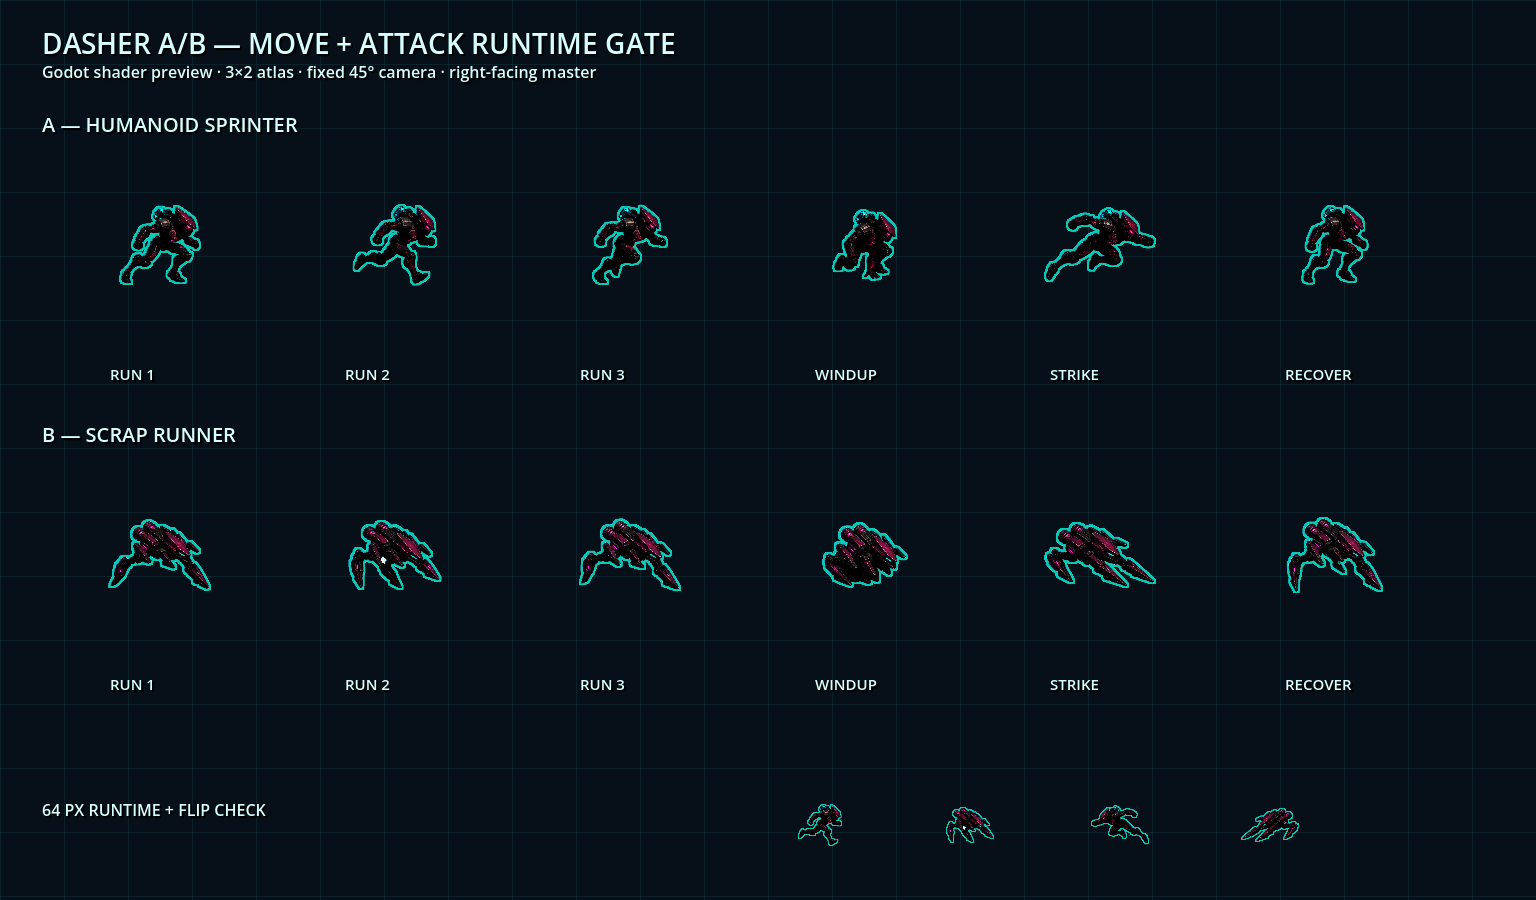
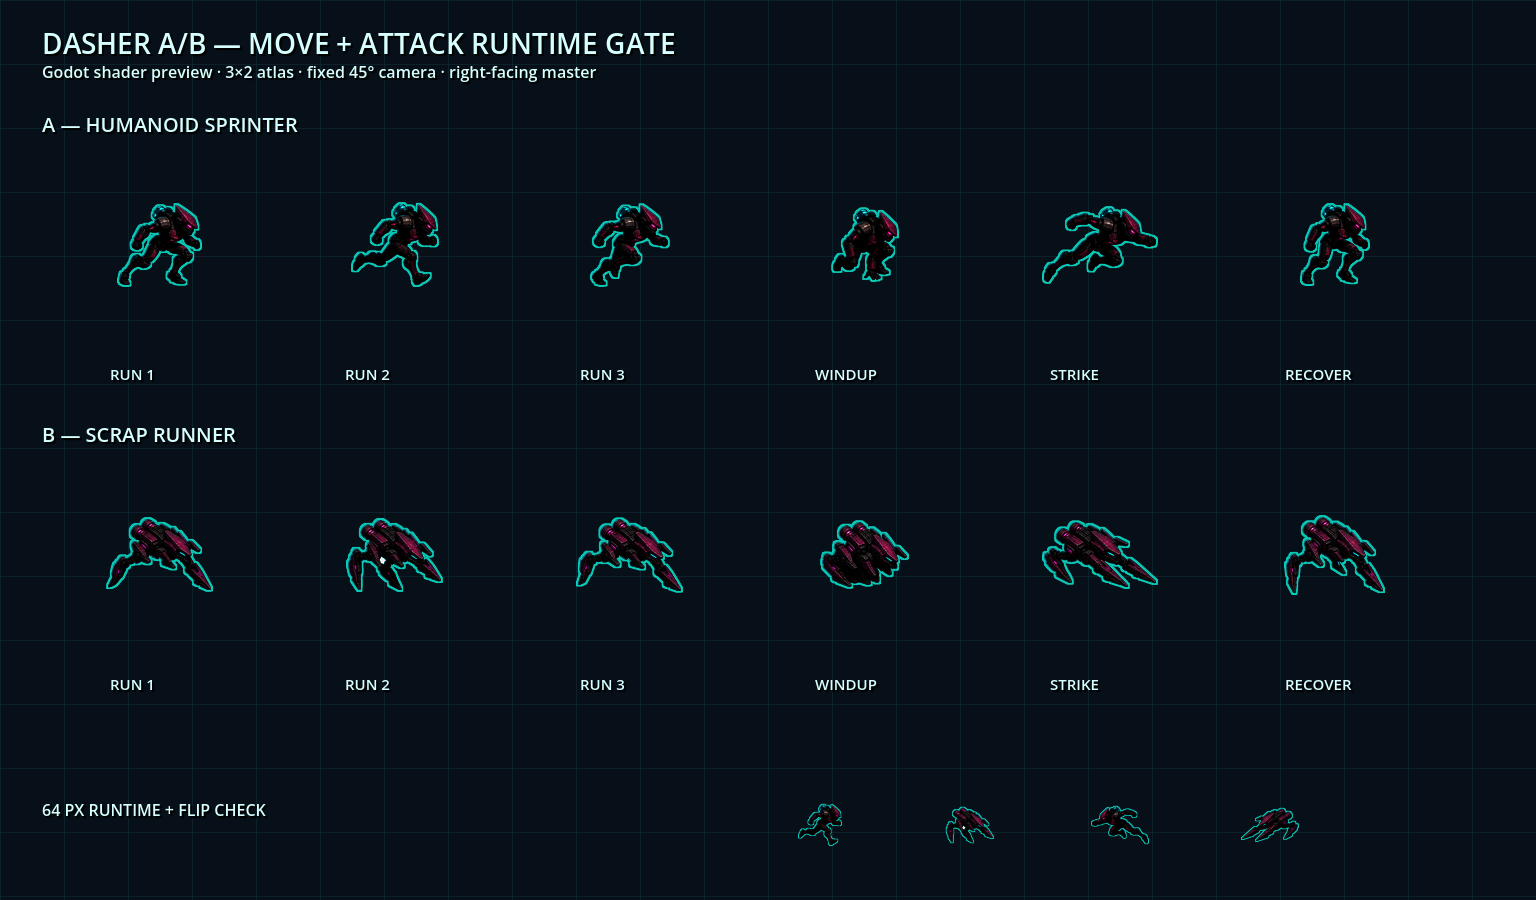
perf: shrink Dasher runtime atlases

diff --git a/scripts/tests/test_dasher_action_assets.py b/scripts/tests/test_dasher_action_assets.py
@@ -18,15 +18,15 @@ class DasherActionAssetsTest(unittest.TestCase):
         for path in ASSETS:
             with self.subTest(path=path.name), Image.open(path) as image:
                 self.assertEqual(image.mode, "RGBA")
-                self.assertEqual(image.size, (1536, 1024))
+                self.assertEqual(image.size, (384, 256))
                 alpha = image.getchannel("A")
                 self.assertEqual(alpha.getextrema(), (0, 255))
                 self.assertEqual(
                     [
                         alpha.getpixel((0, 0)),
-                        alpha.getpixel((1535, 0)),
-                        alpha.getpixel((0, 1023)),
-                        alpha.getpixel((1535, 1023)),
+                        alpha.getpixel((383, 0)),
+                        alpha.getpixel((0, 255)),
+                        alpha.getpixel((383, 255)),
                     ],
                     [0, 0, 0, 0],
                 )
@@ -34,19 +34,19 @@ class DasherActionAssetsTest(unittest.TestCase):
                     for column in range(3):
                         cell = alpha.crop(
                             (
-                                column * 512,
-                                row * 512,
-                                (column + 1) * 512,
-                                (row + 1) * 512,
+                                column * 128,
+                                row * 128,
+                                (column + 1) * 128,
+                                (row + 1) * 128,
                             )
                         )
                         bbox = cell.getbbox()
                         self.assertIsNotNone(bbox)
                         assert bbox is not None
-                        self.assertGreaterEqual(bbox[0], 24)
-                        self.assertGreaterEqual(bbox[1], 24)
-                        self.assertLessEqual(bbox[2], 488)
-                        self.assertLessEqual(bbox[3], 488)
+                        self.assertGreaterEqual(bbox[0], 6)
+                        self.assertGreaterEqual(bbox[1], 6)
+                        self.assertLessEqual(bbox[2], 122)
+                        self.assertLessEqual(bbox[3], 122)
 
 
 if __name__ == "__main__":

diff --git a/scripts/art/build_dasher_runtime_lod_candidates.py b/scripts/art/build_dasher_runtime_lod_candidates.py
@@ -1,0 +1,60 @@
+"""Build temporary Dasher runtime LOD candidates for the Godot comparison gate."""
+
+from __future__ import annotations
+
+from pathlib import Path
+
+from PIL import Image
+
+from repack_animation_sheet import (
+    bake_alpha_outline,
+    repack_sheet,
+    validate_repacked_sheet,
+    validation_padding,
+)
+
+
+ROOT = Path(__file__).resolve().parents[2]
+CANDIDATE_SIZES = (128, 192, 256)
+
+
+def build_candidate(
+    variant: str,
+    cell_size: int,
+    output_root: Path | None = None,
+) -> Path:
+    padding = round(cell_size / 16)
+    outline_width = round(cell_size / 64)
+    source_path = (
+        ROOT
+        / "assets"
+        / "art"
+        / "source"
+        / "enemies"
+        / f"enemy_dasher_{variant}_actions_alpha_v1.png"
+    )
+    destination = output_root if output_root is not None else ROOT / ".godot"
+    output_path = destination / f"dasher_lod_{variant}_{cell_size}.png"
+    with Image.open(source_path) as source:
+        result = repack_sheet(source, cell_size=cell_size, padding=padding)
+    result = bake_alpha_outline(result, width=outline_width)
+    validate_repacked_sheet(
+        result,
+        cell_size=cell_size,
+        padding=validation_padding(padding, outline_width),
+    )
+    output_path.parent.mkdir(parents=True, exist_ok=True)
+    result.save(output_path)
+    return output_path
+
+
+def main() -> int:
+    for variant in ("a", "b"):
+        for cell_size in CANDIDATE_SIZES:
+            output_path = build_candidate(variant, cell_size)
+            print(f"LOD CANDIDATE PASS: {output_path.relative_to(ROOT)}")
+    return 0
+
+
+if __name__ == "__main__":
+    raise SystemExit(main())

diff --git a/scripts/tests/test_build_dasher_runtime_lod_candidates.py b/scripts/tests/test_build_dasher_runtime_lod_candidates.py
@@ -1,0 +1,43 @@
+from __future__ import annotations
+
+import importlib.util
+import sys
+import tempfile
+import unittest
+from pathlib import Path
+
+from PIL import Image
+
+
+ROOT = Path(__file__).resolve().parents[2]
+SCRIPT_PATH = ROOT / "scripts/art/build_dasher_runtime_lod_candidates.py"
+
+
+def load_script():
+    sys.path.insert(0, str(SCRIPT_PATH.parent))
+    try:
+        spec = importlib.util.spec_from_file_location(
+            "build_dasher_runtime_lod_candidates",
+            SCRIPT_PATH,
+        )
+        assert spec is not None and spec.loader is not None
+        module = importlib.util.module_from_spec(spec)
+        spec.loader.exec_module(module)
+        return module
+    finally:
+        sys.path.pop(0)
+
+
+class BuildDasherRuntimeLodCandidatesTest(unittest.TestCase):
+    def test_builds_valid_128_pixel_candidate_without_touching_runtime_asset(self):
+        module = load_script()
+        with tempfile.TemporaryDirectory() as temporary_directory:
+            output = module.build_candidate("a", 128, Path(temporary_directory))
+            with Image.open(output) as image:
+                self.assertEqual(image.mode, "RGBA")
+                self.assertEqual(image.size, (384, 256))
+                self.assertEqual(image.getchannel("A").getextrema(), (0, 255))
+
+
+if __name__ == "__main__":
+    unittest.main()

diff --git a/scripts/art/repack_animation_sheet.py b/scripts/art/repack_animation_sheet.py
@@ -151,6 +151,10 @@ def validate_repacked_sheet(image: Image.Image, cell_size: int = 512, padding: i
                 raise RuntimeError(f"repacked cell {column},{row} violates safe padding: {bbox}")
 
 
+def validation_padding(configured_padding: int, outline_width: int) -> int:
+    return max(1, configured_padding - max(0, outline_width))
+
+
 def parse_args() -> argparse.Namespace:
     parser = argparse.ArgumentParser()
     parser.add_argument("input", type=Path)
@@ -167,7 +171,11 @@ def main() -> int:
     with Image.open(args.input) as source:
         result = repack_sheet(source, args.cell_size, args.padding)
     result = bake_alpha_outline(result, args.outline_color, args.outline_width)
-    validate_repacked_sheet(result, args.cell_size)
+    validate_repacked_sheet(
+        result,
+        args.cell_size,
+        validation_padding(args.padding, args.outline_width),
+    )
     args.output.parent.mkdir(parents=True, exist_ok=True)
     result.save(args.output)
     print(f"REPACK PASS: {args.output} {result.width}x{result.height} RGBA")

diff --git a/scripts/tests/test_repack_animation_sheet.py b/scripts/tests/test_repack_animation_sheet.py
@@ -56,6 +56,12 @@ class RepackAnimationSheetTest(unittest.TestCase):
         self.assertEqual(result.getpixel((10, 15)), (51, 255, 242, 255))
         self.assertEqual(result.getpixel((8, 15))[3], 0)
 
+    def test_validation_padding_tracks_configured_cell_margin_and_outline(self):
+        module = load_script()
+        self.assertEqual(module.validation_padding(32, 8), 24)
+        self.assertEqual(module.validation_padding(8, 2), 6)
+        self.assertEqual(module.validation_padding(1, 4), 1)
+
 
 if __name__ == "__main__":
     unittest.main()

diff --git a/docs/art/reviews/characters-combat-enemy-dasher-actions-v1.md b/docs/art/reviews/characters-combat-enemy-dasher-actions-v1.md
@@ -8,7 +8,7 @@
 
 ## 选择结果
 
-- 每个变体使用一张 3×2、1536×1024 RGBA 图集，每格 512×512。
+- 每个变体使用一张 3×2、384×256 RGBA 运行时图集，每格 128×128；1536×1024 高分辨率 Alpha 母图保留在 source 目录。
 - 上排三帧构成 `0→1→2→1` 的 9 FPS 移动循环。
 - 下排依次为蓄力、冲击、恢复，由既有 `attack_timer` 驱动。
 - 继续使用单一右向母图和运行时水平翻转，不制作重复的左向资源。
@@ -19,13 +19,13 @@
 - 使用内置 imagegen，以既有 A/B 正式资源为身份参考、style lock A 为渲染语言参考。
 - imagegen 输出为 1536×1024 RGB，并把透明棋盘格画进背景，未直接通过。
 - `remove_connected_light_background.py` 仅移除与画布边缘连通的高亮中性背景，保留封闭在深色轮廓内的白色装甲细节。
-- `repack_animation_sheet.py` 从透明图中识别六个连通主体，使用统一缩放比例重新装入严格 512×512 网格，解决 A 冲击帧跨格问题。
+- `repack_animation_sheet.py` 从透明图中识别六个连通主体，使用统一缩放比例重新装入严格网格，解决 A 冲击帧跨格问题；运行时 LOD 复审后改为 128×128 单格。
 - RGB 原始输出与透明化中间文件保存在 `assets/art/source/enemies`；只有重新打包后的两张图集进入 `assets/art/actors/enemies`。
 
 ## 运行时接入
 
 - `Enemy.gd` 使用新 A/B 动作图集和 `Sprite2D.hframes=3`、`vframes=2`。
-- 运行时缩放为 `0.125`，每帧显示尺寸为 64×64。
+- 运行时缩放为 `0.5`，每帧显示尺寸仍为 64×64。
 - 移动、蓄力、命中和恢复只改变视觉帧，不修改碰撞、速度、生命、伤害、AI 或攻击计时。
 - 每个实例按稳定的实例标识获得移动循环相位偏移，降低敌群动作完全同步的机械感。
 - Dasher 共用一份编译 Shader；每个实例保留独立闪白参数。
@@ -37,8 +37,9 @@
 
 - 动作板由 Godot 4.7 OpenGL Compatibility 后端真实渲染，尺寸 1536×900。
 - 大尺寸行覆盖 A/B 全部六帧；底部覆盖 64px 实际尺寸和左右翻转。
-- `EnemyDasherArtTest`：27 项断言通过。
-- `test_dasher_action_assets`：验证 RGBA、1536×1024、透明四角、六格非空和至少 24px 安全边距。
+- `EnemyDasherArtTest`：27 项断言通过，包括两张图集合计不超过 1 MiB RGBA 的预算门禁。
+- `test_dasher_action_assets`：验证 RGBA、384×256、透明四角、六格非空和至少 6px 安全边距。
+- `dasher-runtime-lod-comparison-v1.png` 在精确 64px 显示下比较 128/192/256/512 四档并批准 128 档。
 
 ## 后续观察
 

diff --git a/docs/art/reviews/characters-combat-enemy-dasher-runtime-lod-v1.md b/docs/art/reviews/characters-combat-enemy-dasher-runtime-lod-v1.md
@@ -1,0 +1,46 @@
+# Dasher Runtime Texture LOD v1 Review
+
+Date: 2026-08-18
+Review state: gameplay-approved
+
+## Decision
+
+Approve the 128-pixel-per-frame candidate for both Dasher action atlases. The
+high-resolution transparent source sheets remain unchanged and can regenerate a
+larger runtime LOD if a future camera scale requires it.
+
+## Comparison gate
+
+The deterministic board compares 128, 192, 256, and the previous 512-pixel cells.
+Every sample is displayed at the exact 64-pixel runtime canvas with linear
+filtering. Both A and B are shown in all three run poses plus windup, strike, and
+recovery.
+
+At 128 pixels, A's head/torso/limb separation, B's low mechanical silhouette, the
+six action poses, transparent gaps, and the one-runtime-pixel cyan outline remain
+equivalent at gameplay scale. No visible benefit justifies the larger candidates.
+
+## Resource result
+
+- previous: two 1536x1024 RGBA atlases, 12,582,912 uncompressed bytes (12.00 MiB);
+- selected: two 384x256 RGBA atlases, 786,432 uncompressed bytes (0.75 MiB);
+- reduction: 11.25 MiB, or 93.75 percent;
+- runtime display remains 64x64 through a scale change from 0.125 to 0.5;
+- collision, speed, damage, AI, animation states, frame order, phase offset,
+  horizontal facing, and hit-flash shader remain unchanged.
+
+## Evidence
+
+- comparison: `docs/art/previews/characters-combat/dasher-runtime-lod-comparison-v1.png`;
+- real action board: `docs/art/previews/characters-combat/enemy-dasher-actions-runtime-v1.png`;
+- dense combat: `docs/art/previews/characters-combat/art-stress-combat-runtime-v1.png`.
+
+The reusable repacker now derives validation padding from configured padding minus
+outline width. Default 512-pixel generation still resolves to the original 24-pixel
+gate, while scaled technical candidates receive proportional validation.
+
+Reproduce the board by running
+`python scripts/art/build_dasher_runtime_lod_candidates.py`, followed by the real
+Godot renderer `scripts/art/RenderDasherRuntimeLodPreview.gd`. Candidate atlases are
+temporary `.godot` files; only the comparison board and selected runtime LOD are
+versioned.
